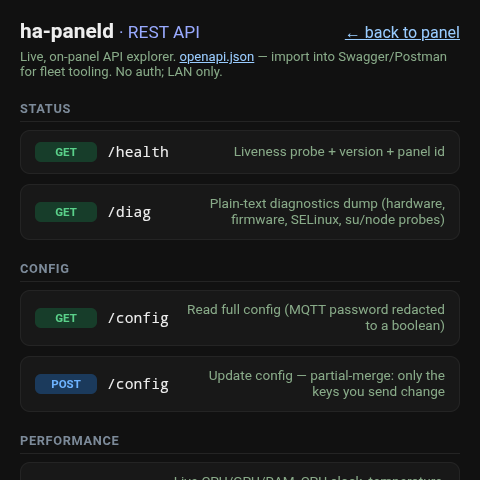
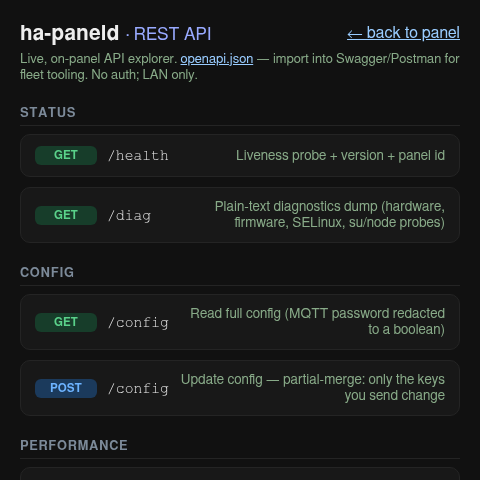
#59: v0.8.1 — promote to stable
Drops the -rc1 suffix (versionCode 32). Refreshes the README screenshots (config-ui hero 1920x1500,
launcher + api-explorer 480x480 dark) from synthetic, leak-safe data with sensitive fields blurred,
and removes the screenshot fixture from the repo (screenshot generation is a local task).

diff --git a/README.md b/README.md
@@ -4,7 +4,7 @@
 </picture>
 
 [![CI](https://github.com/maxlyth/ha-paneld/actions/workflows/ci.yml/badge.svg?branch=main)](https://github.com/maxlyth/ha-paneld/actions/workflows/ci.yml)
-[![Release](https://img.shields.io/badge/release-v0.8.0-blue?style=flat-square)](https://github.com/maxlyth/ha-paneld/releases/latest)
+[![Release](https://img.shields.io/badge/release-v0.8.1-blue?style=flat-square)](https://github.com/maxlyth/ha-paneld/releases/latest)
 [![License](https://img.shields.io/badge/license-Apache_2.0-blue?style=flat-square)](LICENSE)
 
 **ha-paneld is free, open-source, and exists to fix what's wrong with Home Assistant wall panels** —
